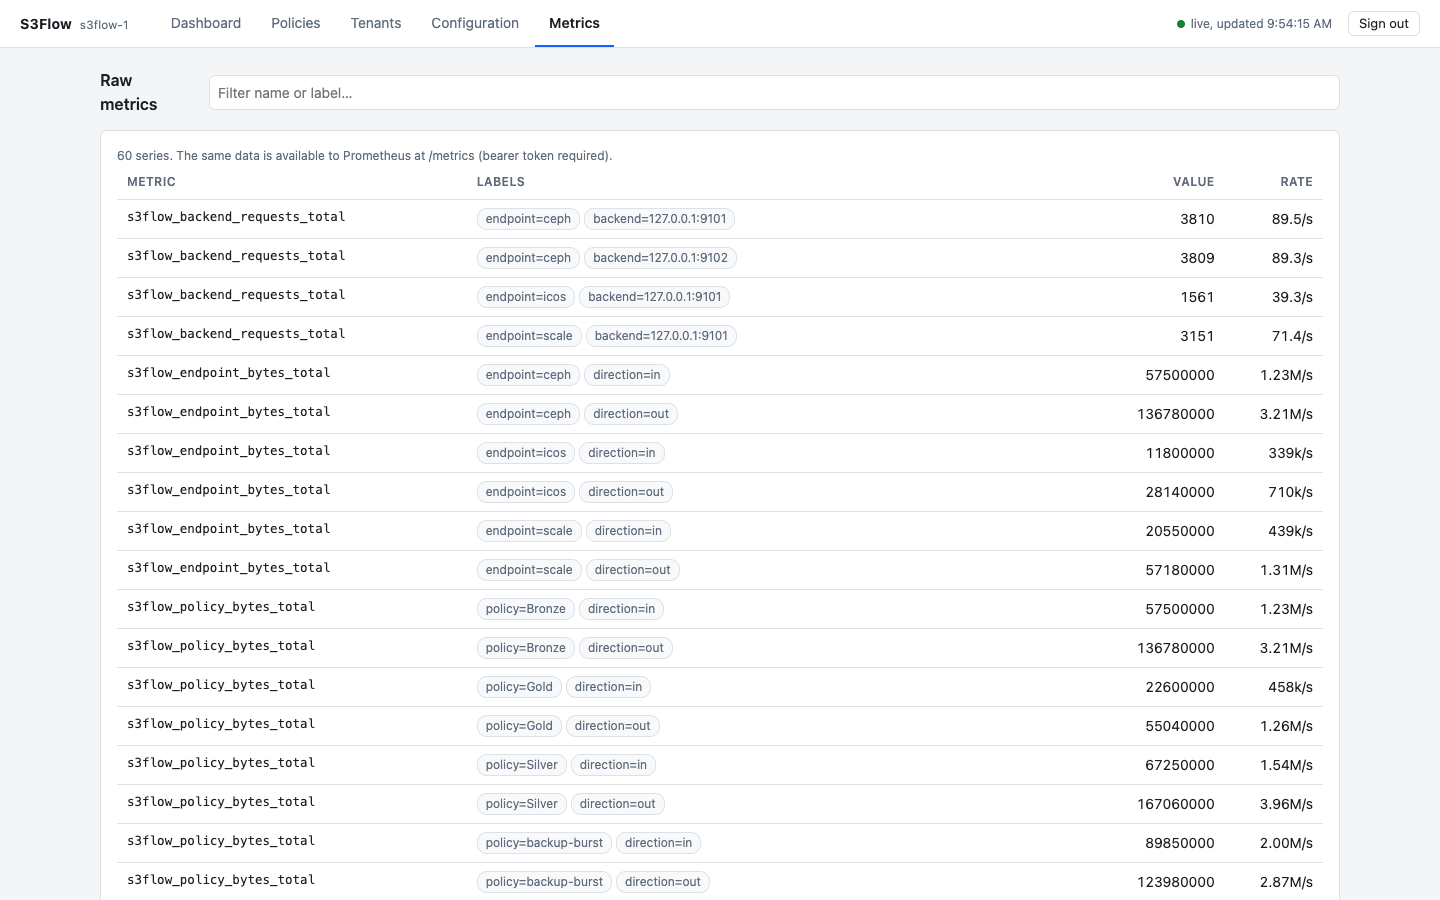
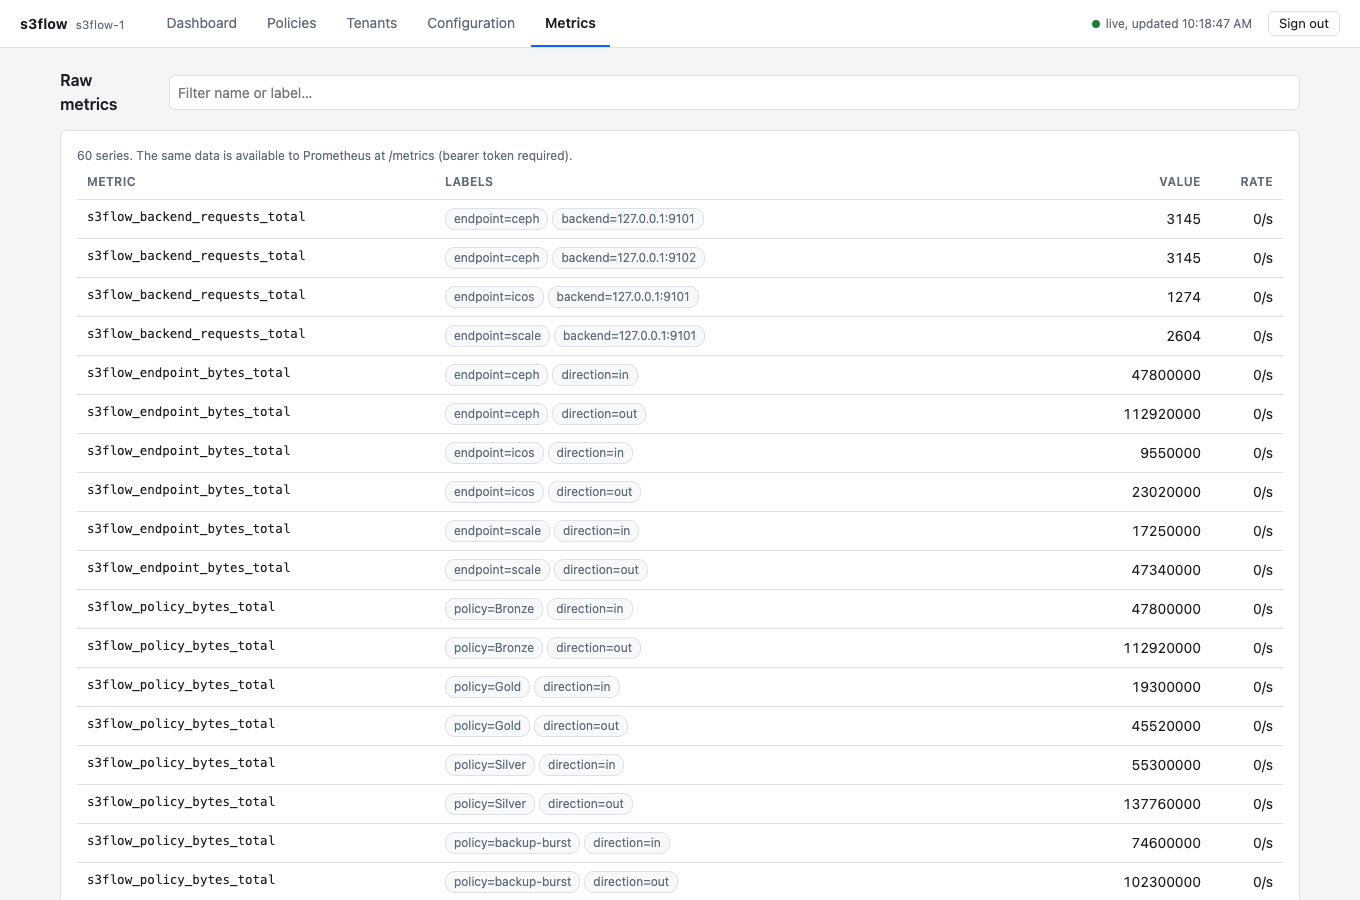
Use lowercase s3flow everywhere
- README: heading, prose, capability table header → s3flow
- UI: page title, login h1, topbar brand, JS global (window.s3flow)
  and sessionStorage key → s3flow_token
- Retake policies and metrics screenshots showing lowercase brand
- gofmt, make vet test green; storagegrid/netapp grep: zero hits

diff --git a/internal/ui/static/app.js b/internal/ui/static/app.js
@@ -1,9 +1,9 @@
-/* S3Flow management console. Talks only to the authenticated /api/v1 endpoints
+/* s3flow management console. Talks only to the authenticated /api/v1 endpoints
  * and /metrics of the node serving it. DOM is built with createElement (never
  * innerHTML), so data from the API can never inject markup. */
 (function () {
   'use strict';
-  const L = window.S3FLOW;
+  const L = window.s3flow;
   const POLL_MS = 5000, HISTORY = 60;
   const TOKEN_KEY = 's3flow_token';
 
@@ -541,7 +541,7 @@
       await refresh(); startPolling();
     };
     return h('div', { class: 'login' }, h('form', { class: 'card', onsubmit: go },
-      h('h1', null, 'S3Flow'), h('p', { class: 'tagline' }, 'Policy-driven S3 traffic control for IBM object storage'), h('p', null, 'Sign in with the admin token configured for this node.'), err,
+      h('h1', null, 's3flow'), h('p', { class: 'tagline' }, 'Policy-driven S3 traffic control for IBM object storage'), h('p', null, 'Sign in with the admin token configured for this node.'), err,
       h('label', { class: 'field' }, h('span', null, 'Admin token'), tok),
       h('button', { class: 'btn primary', type: 'submit' }, 'Sign in')));
   }
@@ -549,7 +549,7 @@
   function shell(content) {
     const ok = !S.error;
     return h('div', null,
-      h('div', { class: 'topbar' }, h('div', { class: 'brand' }, 'S3Flow', h('small', null, S.config ? S.config.nodeId : '')),
+      h('div', { class: 'topbar' }, h('div', { class: 'brand' }, 's3flow', h('small', null, S.config ? S.config.nodeId : '')),
         h('nav', { class: 'tabs' }, PAGES.map((p) => h('a', { class: 'tab' + (S.page === p[0] ? ' active' : ''), href: '#/' + p[0], 'aria-current': S.page === p[0] ? 'page' : null }, p[1]))),
         h('div', { class: 'spacer' }),
         h('div', { class: 'status' }, h('span', { class: 'dot' + (ok ? '' : ' bad') }), ok ? 'live, updated ' + new Date(S.lastOk).toLocaleTimeString() : 'disconnected'),

diff --git a/internal/ui/static/index.html b/internal/ui/static/index.html
@@ -3,7 +3,7 @@
 <head>
 <meta charset="utf-8">
 <meta name="viewport" content="width=device-width, initial-scale=1">
-<title>S3Flow – policy-driven S3 traffic control</title>
+<title>s3flow – policy-driven S3 traffic control</title>
 <link rel="icon" href="data:,">
 <link rel="stylesheet" href="style.css">
 <script src="lib.js" defer></script>
@@ -11,6 +11,6 @@
 </head>
 <body>
 <div id="app"></div>
-<noscript><p class="noscript">The S3Flow console needs JavaScript. The management API remains available at /api/v1.</p></noscript>
+<noscript><p class="noscript">The s3flow console needs JavaScript. The management API remains available at /api/v1.</p></noscript>
 </body>
 </html>

diff --git a/internal/ui/static/lib.js b/internal/ui/static/lib.js
@@ -1,8 +1,8 @@
-/* s3flow UI – pure helpers (no DOM). Loaded by the browser as window.S3FLOW and
+/* s3flow UI – pure helpers (no DOM). Loaded by the browser as window.s3flow and
  * by `node --test` as a CommonJS module. */
 (function (root, factory) {
   if (typeof module === 'object' && module.exports) module.exports = factory();
-  else root.S3FLOW = factory();
+  else root.s3flow = factory();
 })(typeof self !== 'undefined' ? self : this, function () {
   'use strict';
 

diff --git a/README.md b/README.md
@@ -1,8 +1,8 @@
-# S3Flow
+# s3flow
 
 **Policy-driven S3 traffic control for IBM object storage**
 
-S3Flow is a transparent S3 front-end proxy with QoS. A single static Go binary
+s3flow is a transparent S3 front-end proxy with QoS. A single static Go binary
 (standard library only), `s3flow`, sits in front of
 **IBM Storage Ceph (RGW)**, **Storage Scale CES S3** and **IBM Cloud Object
 Storage (ICOS)** and applies traffic-classification policies (bandwidth,
@@ -16,7 +16,7 @@ that runs a backend performing real SigV4 verification behind the proxy.
 
 ## Feature mapping
 
-| Capability | S3Flow |
+| Capability | s3flow |
 |---|---|
 | Matchers `bucket`, `bucket-regex`, `tenant`, `cidr` (IPv4), `endpoint`, `inverse` | same names/JSON; OR semantics; regex unanchored |
 | Best-match bandwidth precedence (/32 IP, bucket, regex, tenant, endpoint, CIDR, inverse) | implemented; bandwidth taken from the single winning policy only |
@@ -161,8 +161,8 @@ Per-backend metrics: `s3flow_backend_up`, `s3flow_backend_weight`,
 `s3flow_backend_active_requests` and `s3flow_backend_requests_total`, each labelled
 `{endpoint,backend}`.
 
-This balances traffic inside one S3Flow node. To spread clients across several
-S3Flow nodes use DNS round-robin or a VIP in front of them; the nodes share
+This balances traffic inside one s3flow node. To spread clients across several
+s3flow nodes use DNS round-robin or a VIP in front of them; the nodes share
 policy and divide fleet-wide limits (see `enforcement`).
 
 ### Separate environments (for example test and prod)
@@ -292,7 +292,7 @@ metrics, then add limits.
 
 ## Operational notes and limitations
 
-* Put an L4 load balancer or DNS round-robin in front of several S3Flow nodes;
+* Put an L4 load balancer or DNS round-robin in front of several s3flow nodes;
   clients must not bypass the proxy (restrict backend access by firewall).
 * TLS is terminated at the proxy and re-originated to the backend with the
   original `Host` header preserved (it is part of the SigV4 signature). The
